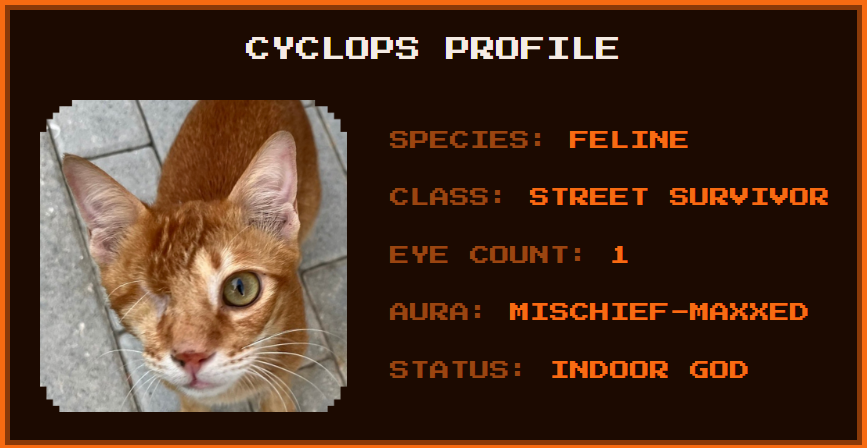
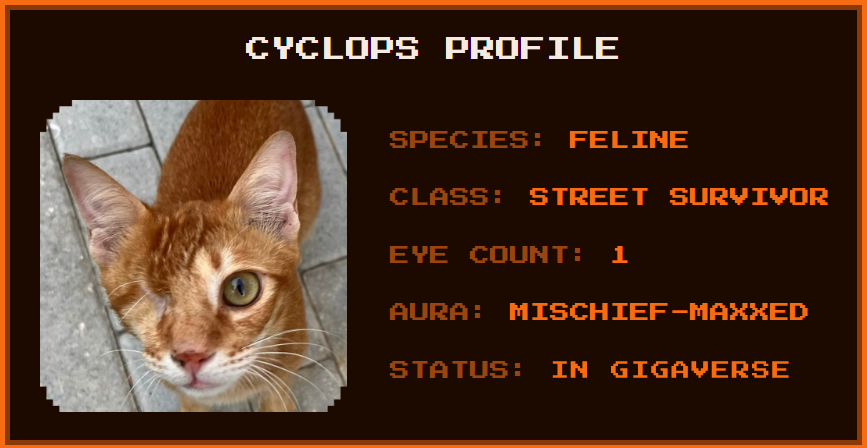
cyclops

Changed region(s): [[0.654, 0.7812, 0.9031, 0.8438]]

diff --git a/src/components/Header.jsx b/src/components/Header.jsx
@@ -5,6 +5,7 @@ import { BsTelegram } from "react-icons/bs";
 import { IoLogoDiscord } from "react-icons/io5";
 import { AiOutlineMenu } from "react-icons/ai";
 import catImg from '../assets/cat-logo.png'
+import dexImg from '../assets/dexscreener.svg'
 
 
 
@@ -29,6 +30,7 @@ const Header = () => {
           <div className='social-wrapper--header'>
             <a href="https://x.com/CyclopsOnAbs" target="_blank" rel="noopener noreferrer" className='social-link'> <BsTwitterX /> </a>
             <a href="https://t.me/CYCLOPSPORTALL" target="_blank" rel="noopener noreferrer" className='social-link'> <BsTelegram /> </a>
+            <a href="https://t.me/CYCLOPSPORTALL" target="_blank" rel="noopener noreferrer" className='social-link'> <img src={dexImg} alt="dex" /> </a>
             {/* <a href="" target="_blank" rel="noopener noreferrer" className='social-link'> <IoLogoDiscord /></a> */}
           </div>
           <div className='mobile-menu-toggler--header'>

diff --git a/src/styles/index.css b/src/styles/index.css
@@ -96,11 +96,10 @@ header#main-header .container-1{
 .social-wrapper--header{
   display: flex;
   align-items: center;
-  gap: 22px;
+  /* gap: 22px; */
   font-size: 20px;
   border: 1px solid var(--text-color);
   height: 42px;
-  padding-inline: 11px;
   background-color: #1c0a01;
   border: 2px solid #9a4510;
   position: relative;
@@ -122,9 +121,13 @@ header#main-header .container-1{
   display: flex;
   align-items: center;
   height: 100%;
+  padding-inline: 14px;
+}
+.social-wrapper--header .social-link img{
+  height: 24px;
 }
 .social-wrapper--header .social-link:hover{
-  color: var(--primary-color);
+  background-color: var(--primary-color);
 }
 .mobile-menu-toggler--header{
   display: none;

diff --git a/src/components/homeSections/MemenomicsSection.jsx b/src/components/homeSections/MemenomicsSection.jsx
@@ -25,7 +25,7 @@ const MemenomicsSection = () => {
                                 <li><span>Class:</span> Street Survivor</li>
                                 <li><span>Eye Count:</span> one</li>
                                 <li><span>Personality:</span> Playful</li>
-                                <li><span>Status:</span> Indoor God </li>
+                                <li><span>Status:</span> in gigaverse </li>
                             </ul>
                         </div>
                     </div>
